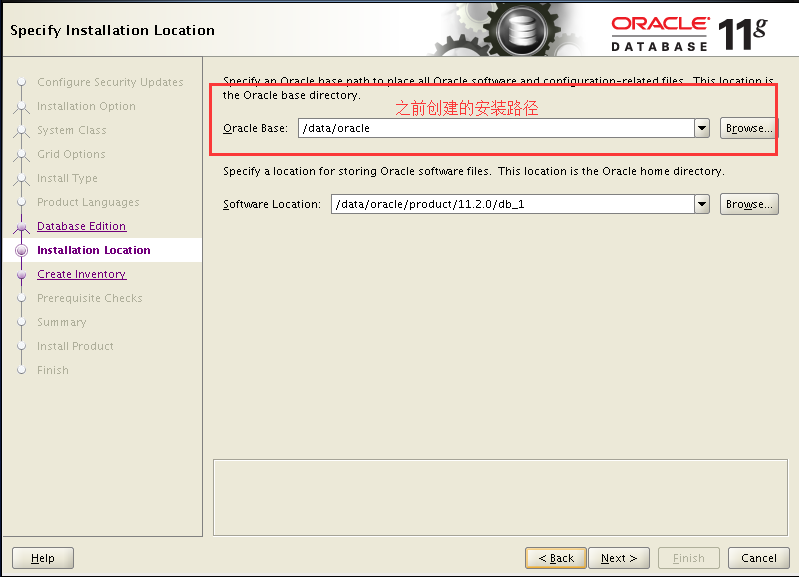
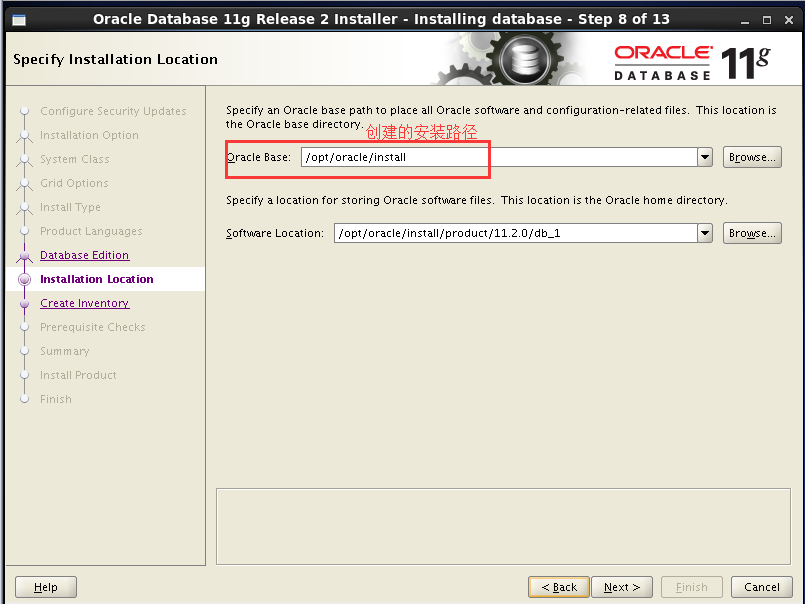
Linux之安装Oracle

Changed region(s): [[0.0, 0.0, 1.0, 1.0]]

diff --git a/4.服务器/1.linux/2.linux之安装软件/9-Linux之安装Oracle.md b/4.服务器/1.linux/2.linux之安装软件/9-Linux之安装Oracle.md
@@ -7,7 +7,7 @@
 - 4、测试。
 
 ***
-`注意：安装要在虚拟机下进行，不能在远程工具上操作`
+`注意：建议安装要在虚拟机下进行`
 
 # 安装的硬件要求
 
@@ -32,21 +32,18 @@ id oracle # 查看新建的oracle用户
 ```
 cd /.        #进入根目录
 
-mkdir -p /data/oracle　　#oracle数据库安装目录
+mkdir -p /opt/oracle/install　　#oracle数据库安装目录
 
-mkdir -p /data/oraInventory　　#oracle数据库配置文件目录
+mkdir -p /opt/oracle/configuration　　#oracle数据库配置文件目录
 
-mkdir -p /data/database　　#oracle数据库软件包解压目录
-
-cd /data
+cd /opt/oracle
 
 ls　　#创建完毕检查一下（强迫症）
 
-chown -R oracle:oinstall /data/oracle　　#设置目录所有者为oinstall用户组的oracle用户
+chown -R oracle:oinstall /opt/oracle/install　　#设置目录所有者为oinstall用户组的oracle用户
 
-chown -R oracle:oinstall /data/oraInventory
+chown -R oracle:oinstall /opt/oracle/configuration
 
-chown -R oracle:oinstall /data/database
 ```
 ### 3、修改OS系统标识（oracle默认不支持CentOS系统安装，但是centos其实就是redhat）
 ```
@@ -124,7 +121,7 @@ vi /home/oracle/.bash_profile
 - 修改内容是：
 最后添加
 ```
-export ORACLE_BASE=/data/oracle #oracle数据库安装目录
+export ORACLE_BASE=/opt/oracle/install #oracle数据库安装目录
 export ORACLE_HOME=$ORACLE_BASE/product/11.2.0/db_1 #oracle数据库路径
 export ORACLE_SID=orcl #oracle启动数据库实例名
 export ORACLE_UNQNAME=orcl
@@ -164,18 +161,21 @@ su oracle
 
 cd /usr/local/src
 
-#解压软件包至/data/database/目录下
+#解压软件包
 
-unzip linux.x64_11gR2_database_1of2.zip -d /data/database/
-unzip linux.x64_11gR2_database_2of2.zip -d /data/database/
+unzip linux.x64_11gR2_database_1of2.zip
+unzip linux.x64_11gR2_database_2of2.zip
+
+rm -rf linux.x64_11gR2_database_1of2.zip
+rm -rf linux.x64_11gR2_database_2of2.zip
 
 su root
 
-chown -R oracle:oinstall /data/database/database/
+chown -R oracle:oinstall /usr/local/src/database/
 
 su oracle
 
-cd /data/database/database/
+cd /usr/local/src/database/
 
 ./runInstaller
 ```
